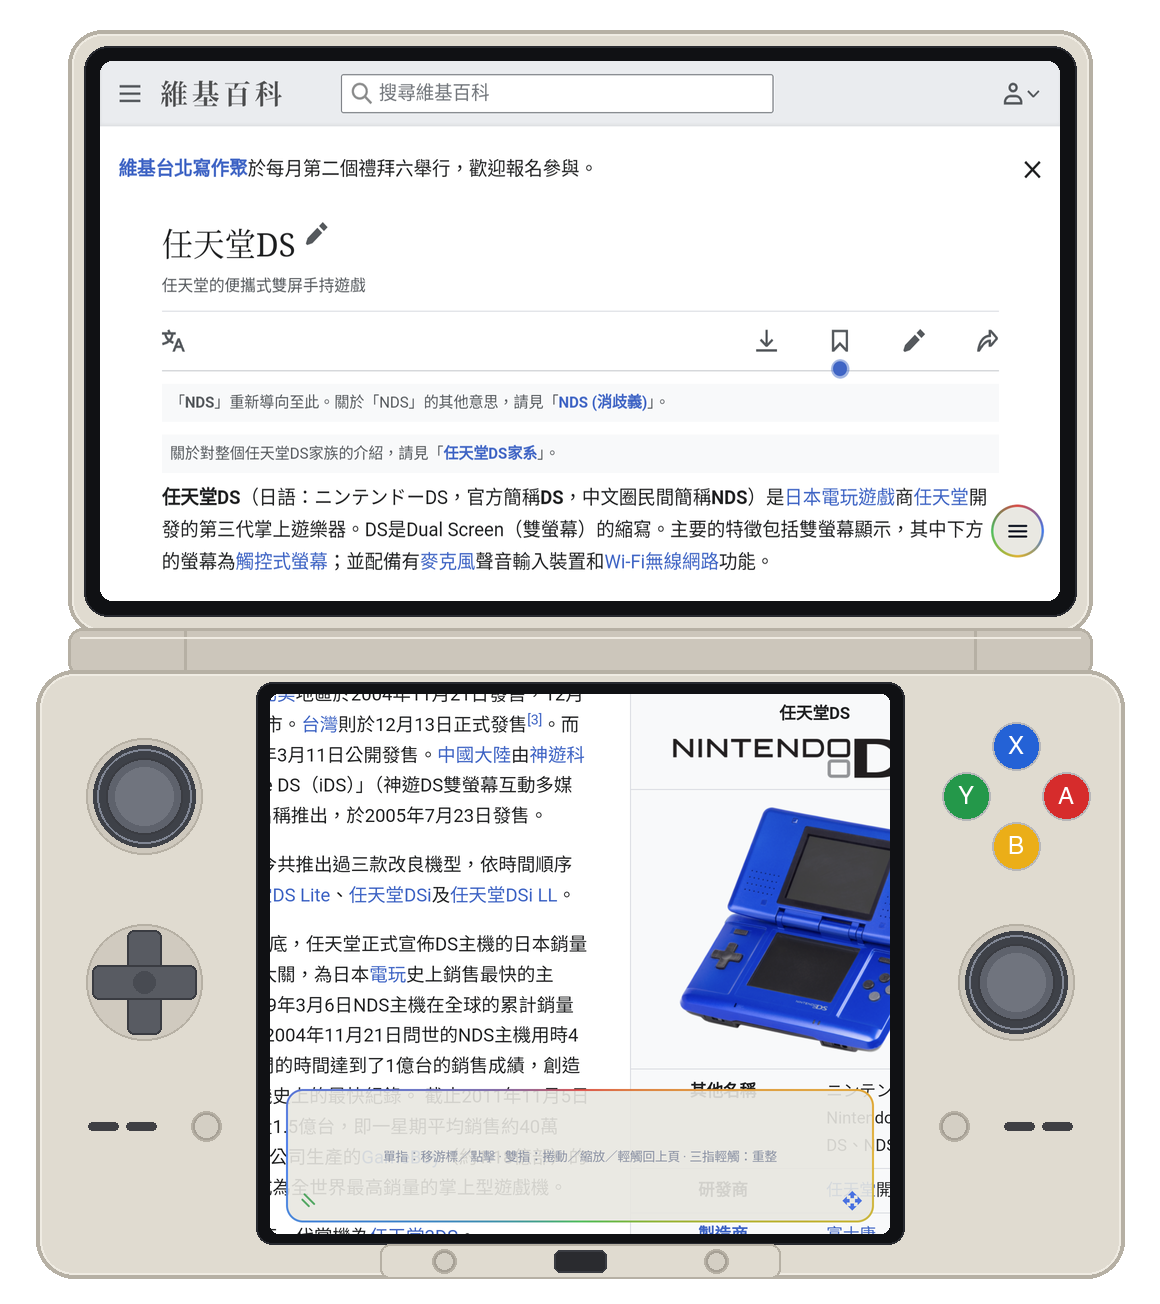
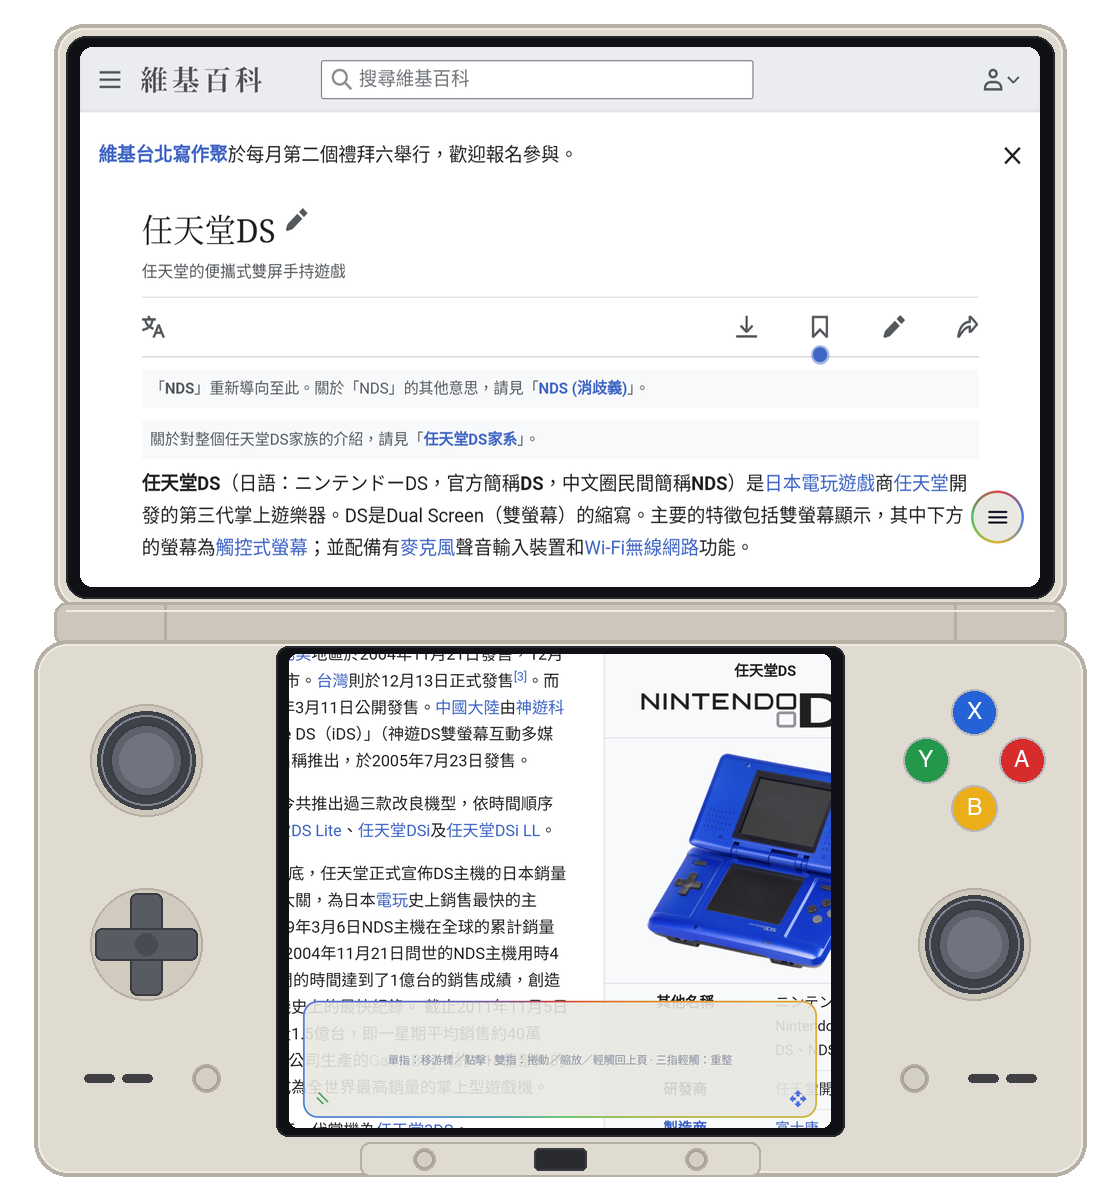
docs: scale bottom 3.92-inch screen to true physical ratio vs 6.0-inch top screen

diff --git a/README.md b/README.md
@@ -16,7 +16,7 @@
 
 | 雙螢幕獨立模式（Google ＋ DuckDuckGo） | 跨螢幕拼接模式（原生 1080p 無縫延伸） |
 | :---: | :---: |
-| <img src="docs/screenshots/thor_independent.png?v=4" alt="AYN Thor 雙螢幕獨立模式" width="380" /> | <img src="docs/screenshots/thor_span.png?v=4" alt="AYN Thor 跨螢幕拼接模式" width="380" /> |
+| <img src="docs/screenshots/thor_independent.png?v=5" alt="AYN Thor 雙螢幕獨立模式" width="380" /> | <img src="docs/screenshots/thor_span.png?v=5" alt="AYN Thor 跨螢幕拼接模式" width="380" /> |
 
 ### 2. 全螢幕與統一浮動選單
 - 隱藏狀態列與導覽列的純淨全螢幕瀏覽，透過 `LaunchTrampolineActivity` 確保於主顯示器（上螢幕）正確啟動。
@@ -30,7 +30,7 @@
 
 | 統一浮動選單 | 新手教學導覽 |
 | :---: | :---: |
-| <img src="docs/screenshots/thor_menu_touchpad.png?v=4" alt="AYN Thor 統一浮動選單" width="380" /> | <img src="docs/screenshots/thor_tutorial.png?v=4" alt="AYN Thor 新手教學導覽" width="380" /> |
+| <img src="docs/screenshots/thor_menu_touchpad.png?v=5" alt="AYN Thor 統一浮動選單" width="380" /> | <img src="docs/screenshots/thor_tutorial.png?v=5" alt="AYN Thor 新手教學導覽" width="380" /> |
 
 ### 3. AYN Thor 主機配色主題
 內建 5 款對應 AYN Thor 實機外觀的配色主題（預設為 `Rainbow`），皆支援雙螢幕即時同步：
@@ -41,7 +41,7 @@
 - **Custom**（自訂色相滑桿）
 
 <p align="center">
-  <img src="docs/screenshots/thor_theme_settings.png?v=4" alt="AYN Thor 主機配色主題設定" width="380" />
+  <img src="docs/screenshots/thor_theme_settings.png?v=5" alt="AYN Thor 主機配色主題設定" width="380" />
 </p>
 
 ### 4. 手把與下螢幕觸控板
@@ -56,7 +56,7 @@
 
 | 手把快捷操作說明（無觸控板） | 拼接模式＋下螢幕多指觸控板 |
 | :---: | :---: |
-| <img src="docs/screenshots/thor_gamepad_guide.png?v=4" alt="AYN Thor 手把快捷操作說明" width="380" /> | <img src="docs/screenshots/thor_touchpad.png?v=4" alt="AYN Thor 下螢幕多指觸控板" width="380" /> |
+| <img src="docs/screenshots/thor_gamepad_guide.png?v=5" alt="AYN Thor 手把快捷操作說明" width="380" /> | <img src="docs/screenshots/thor_touchpad.png?v=5" alt="AYN Thor 下螢幕多指觸控板" width="380" /> |
 
 ### 5. 隱私與網頁增強
 - 內建廣告網域阻擋（`AdBlocker`）與攔截計數
